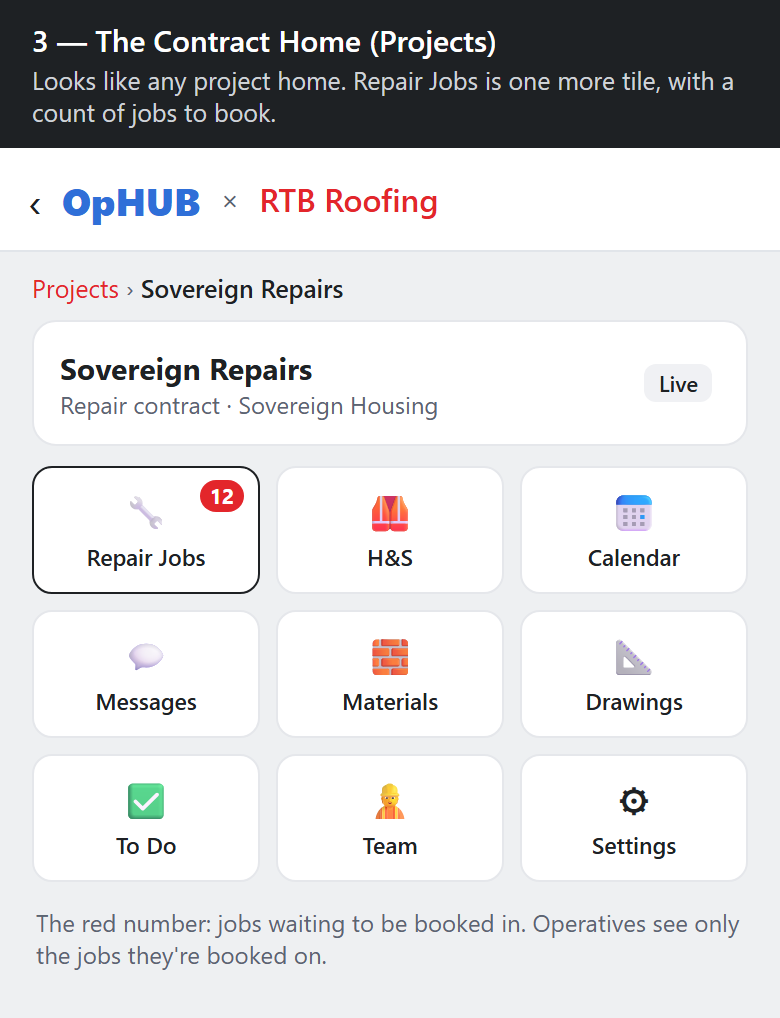
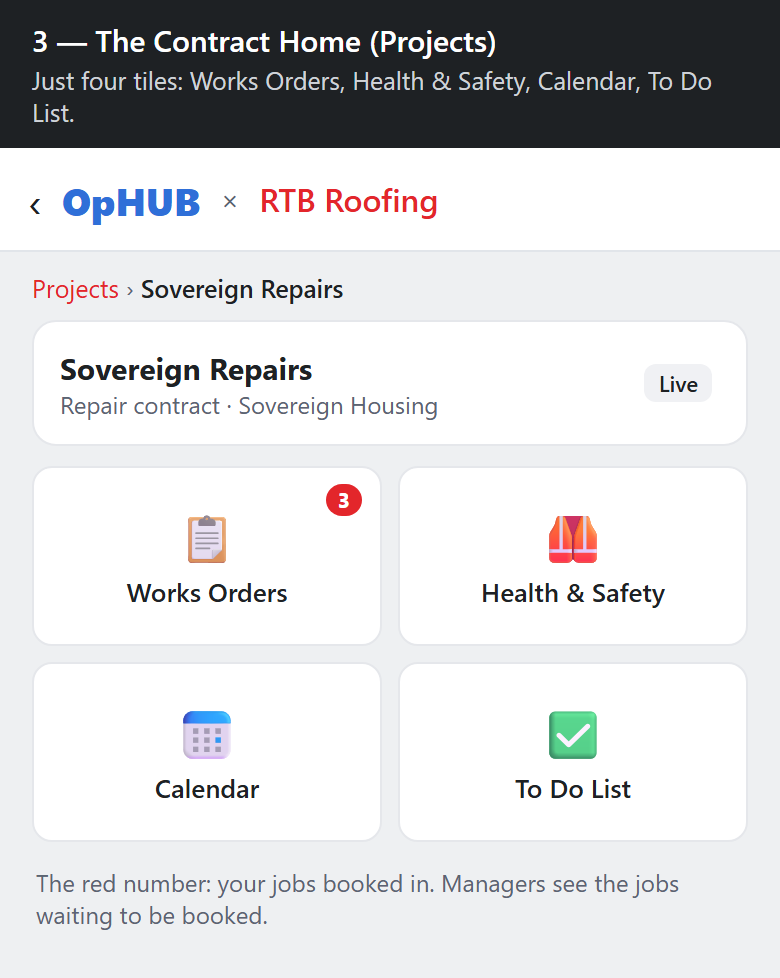
Repair plan, Projects side (Andy, 7 Nov): four tiles (Works Orders, Health & Safety, Calendar, To Do List); Works Orders shows an operative their own jobs by booking date with Show All (all of them if nobody's booked on any); opening a job checks in by GPS, then the operative's steps (fault, repair,
Claude-Session: https://claude.ai/code/session_012KhfNvBEbifMJmPdX7yZfp

diff --git a/docs/claude-code/mockups/repairs.html b/docs/claude-code/mockups/repairs.html
@@ -142,29 +142,74 @@
   </div>
 </div>
 
-<!-- 3. The contract's home in Projects: the normal home, with Repair Jobs as one more tile (Andy, 7 Nov 2026) -->
+<!-- 3. The contract's home in Projects: four tiles (Andy, 7 Nov 2026) -->
 <div id="home" class="phone">
-  <div class="label">3 — The Contract Home (Projects)<small>Looks like any project home. Repair Jobs is one more tile, with a count of jobs to book.</small></div>
+  <div class="label">3 — The Contract Home (Projects)<small>Just four tiles: Works Orders, Health &amp; Safety, Calendar, To Do List.</small></div>
   <div class="top"><span class="back">‹</span><span class="logo">OpHUB</span><span class="x">×</span><span class="co">RTB Roofing</span></div>
   <div class="body">
     <div class="crumbs"><span>Projects</span> › <b>Sovereign Repairs</b></div>
     <div class="card" style="display:flex;align-items:center;gap:10px"><div style="flex:1"><b style="font-size:15px">Sovereign Repairs</b><div class="muted">Repair contract · Sovereign Housing</div></div><span class="tag">Live</span></div>
-    <div class="tiles">
-      <div class="tile" style="border:1.5px solid #1E2124;position:relative"><i>🔧</i>Repair Jobs<span style="position:absolute;top:6px;right:7px;background:#E3262B;color:#fff;font-size:10.5px;font-weight:700;border-radius:9px;min-width:18px;padding:1px 5px">12</span></div>
-      <div class="tile"><i>🦺</i>H&amp;S</div><div class="tile"><i>📅</i>Calendar</div>
-      <div class="tile"><i>💬</i>Messages</div><div class="tile"><i>🧱</i>Materials</div><div class="tile"><i>📐</i>Drawings</div>
-      <div class="tile"><i>✅</i>To Do</div><div class="tile"><i>👷</i>Team</div><div class="tile"><i>⚙</i>Settings</div>
+    <div class="tiles" style="grid-template-columns:1fr 1fr">
+      <div class="tile" style="padding:18px 6px;font-size:13px;position:relative"><i style="font-size:24px">📋</i>Works Orders<span style="position:absolute;top:8px;right:9px;background:#E3262B;color:#fff;font-size:10.5px;font-weight:700;border-radius:9px;min-width:18px;padding:1px 5px">3</span></div>
+      <div class="tile" style="padding:18px 6px;font-size:13px"><i style="font-size:24px">🦺</i>Health &amp; Safety</div>
+      <div class="tile" style="padding:18px 6px;font-size:13px"><i style="font-size:24px">📅</i>Calendar</div>
+      <div class="tile" style="padding:18px 6px;font-size:13px"><i style="font-size:24px">✅</i>To Do List</div>
     </div>
-    <div class="muted" style="padding:2px 2px 8px">The red number: jobs waiting to be booked in. Operatives see only the jobs they're booked on.</div>
+    <div class="muted" style="padding:2px 2px 8px">The red number: your jobs booked in. Managers see the jobs waiting to be booked.</div>
+  </div>
+</div>
+
+<!-- 3c. Works Orders as an operative sees it -->
+<div id="ops" class="phone">
+  <div class="label">3c — Works Orders (Operative)<small>Your jobs, soonest booking first, with Show All. Nobody booked on any yet? Everyone sees them all.</small></div>
+  <div class="top"><span class="back">‹</span><span class="logo">OpHUB</span><span class="x">×</span><span class="co">RTB Roofing</span></div>
+  <div class="body">
+    <div class="crumbs"><span>Projects</span> › <span>Sovereign Repairs</span> › <b>Works Orders</b></div>
+    <div class="row" style="margin-bottom:10px"><span class="btn" style="flex:1;background:#1E2124">My Jobs (3)</span><span class="btn ghost" style="flex:1">Show All (32)</span></div>
+    <div class="h">TODAY</div>
+    <div class="card list" style="padding:4px 12px">
+      <div class="li"><div class="l"><b>WO-58240 · 3 Mill Lane</b><small>Booked 08:00 · Leak to porch roof</small></div><span>›</span></div>
+      <div class="li"><div class="l"><b>WO-58213 · 14 Elm Close</b><small>Booked 13:00 · Works (quote approved)</small></div><span>›</span></div>
+    </div>
+    <div class="h">TUESDAY 11 NOV</div>
+    <div class="card list" style="padding:4px 12px">
+      <div class="li"><div class="l"><b>WO-58262 · 8 Station Rd</b><small>Booked 09:30 · Missing ridge tiles</small></div><span>›</span></div>
+    </div>
+    <div class="muted" style="padding:2px">Tap a job: check in, then work through its steps.</div>
+  </div>
+</div>
+
+<!-- 3d. Opening a job: check in, then the operative's steps (Andy's list, 7 Nov 2026) -->
+<div id="checkin" class="phone">
+  <div class="label">3d — Check In, Then The Steps<small>Check in by GPS (as now), against the job's address. Then the operative's steps, one after another.</small></div>
+  <div class="top"><span class="back">‹</span><span class="logo">OpHUB</span><span class="x">×</span><span class="co">RTB Roofing</span></div>
+  <div class="body">
+    <div class="crumbs"><span>Works Orders</span> › <b>WO-58240</b></div>
+    <div class="card">
+      <div class="jobhead"><span class="no">WO-58240</span><b>3 Mill Lane, Banbury</b></div>
+      <div class="muted" style="margin-top:4px">Leak to porch roof · Tenant Mr K. Hughes · 07700 900456</div>
+      <div style="margin-top:8px;font-size:12.5px;color:#1E7A43;font-weight:600">📍 Checked in 08:04 · within 40 m</div>
+    </div>
+    <div class="stage" style="border:1.5px solid #1E2124"><div class="sh"><div class="dot" style="background:#1E2124;border-color:#1E2124;color:#fff">✓</div><b>1. Description Of Fault</b></div>
+      <div class="sb">Water coming in at the porch flat roof, joint split by the wall.</div></div>
+    <div class="stage" style="border:1.5px solid #1E2124"><div class="sh"><div class="dot" style="background:#1E2124;border-color:#1E2124;color:#fff">✓</div><b>2. Description Of Repair</b></div>
+      <div class="sb">Cut out and patch the felt, new lead flashing to the wall.</div></div>
+    <div class="stage" style="border:1.5px solid #1E2124"><div class="sh"><div class="dot" style="background:#1E2124;border-color:#1E2124;color:#fff">✓</div><b>3. Photos</b><em>4 → Survey Photos</em></div>
+      <div class="sb"><div class="thumbs" style="margin-top:0"><i></i><i></i><i></i><i></i></div></div></div>
+    <div class="stage open"><div class="sh"><div class="dot" style="border:2px solid #E3262B;color:#E3262B">4</div><b>Completed In This Visit?</b></div>
+      <div class="sb"><div class="row"><span class="btn" style="flex:1;padding:9px">Yes</span><span class="btn ghost" style="flex:1;padding:9px">No — Needs A Quote</span></div>
+      <div class="muted" style="margin-top:6px">No: the attendance report (fault, repair, photos) goes to the office to price, and to OneDrive.</div></div></div>
+    <div class="stage"><div class="sh"><div class="dot">5</div><b>Completion Photos And Works Completed</b><em>→ Completion Photos</em></div></div>
+    <div class="stage"><div class="sh"><div class="dot">6</div><b>Check Out</b><em>GPS</em></div></div>
   </div>
 </div>
 
 <!-- 3b. Repair Jobs, opened from the tile -->
 <div id="jobs" class="phone">
-  <div class="label">3b — Repair Jobs (Opened From The Tile)<small>Where every job is at, the + New Job button and the list. Tap a job for its hub.</small></div>
+  <div class="label">3b — Works Orders (Managers)<small>Where every job is at, the + New Job button and the list. Tap a job for its hub.</small></div>
   <div class="top"><span class="back">‹</span><span class="logo">OpHUB</span><span class="x">×</span><span class="co">RTB Roofing</span></div>
   <div class="body">
-    <div class="crumbs"><span>Projects</span> › <span>Sovereign Repairs</span> › <b>Repair Jobs</b></div>
+    <div class="crumbs"><span>Projects</span> › <span>Sovereign Repairs</span> › <b>Works Orders</b></div>
     <div class="jt">
       <div class="red"><b>12</b><small>To Book</small></div><div><b>5</b><small>Booked In</small></div>
       <div><b>4</b><small>Quote Needed</small></div><div><b>6</b><small>Awaiting Approval</small></div>

diff --git a/docs/claude-code/REPAIRS-PLAN.md b/docs/claude-code/REPAIRS-PLAN.md
@@ -20,9 +20,16 @@ Invoiced · Paid in Finance. Fixed first time: Quote and Approved show "Not Need
 **Flags, not stages:** On Hold (with a reason) and Other Trades (e.g. scaffold, with dates). Each has a tile.
 
 ## Screens
-- **Projects home:** looks like any project home; **Repair Jobs** is one more tile (red count: jobs to book).
-- **Repair Jobs** (from the tile): stage boxes (To Book, Booked In, Quote Needed, Awaiting Approval,
+- **Projects home (Andy, 7 Nov):** just four tiles — **Works Orders**, **Health & Safety**, **Calendar**, **To Do List**.
+- **Works Orders, operative:** the jobs booked to them, soonest booking date at the top, with **Show All**. If
+  nobody has been booked on any jobs yet, everyone sees them all.
+- **Works Orders, managers:** stage boxes (To Book, Booked In, Quote Needed, Awaiting Approval,
   Approved — To Book, On Hold / Other Trades), + New Job (Read Works Order), All Jobs, the list.
+- **Opening a job (operative):** check in by GPS as now, against the job's own address. Then their steps:
+  1. Description Of Fault · 2. Description Of Repair · 3. Photos (→ Survey Photos) ·
+  4. Completed In This Visit? **Yes** → 5. Completion Photos (→ Completion Photos) and Description Of Works
+  Completed. **No — Needs A Quote** → the attendance report goes to the office to price (and to OneDrive) ·
+  6. Check Out (GPS).
 - **Job hub** (one per job): progress bar and what's next; the works order with a PDF viewer; address, call-out,
   tenant name, phone and tenant no.; booked / attended / completed dates; notes (the client can see these).
   Finance sees a Money box (quoted, costs, margin); Projects sees the same page without it.
